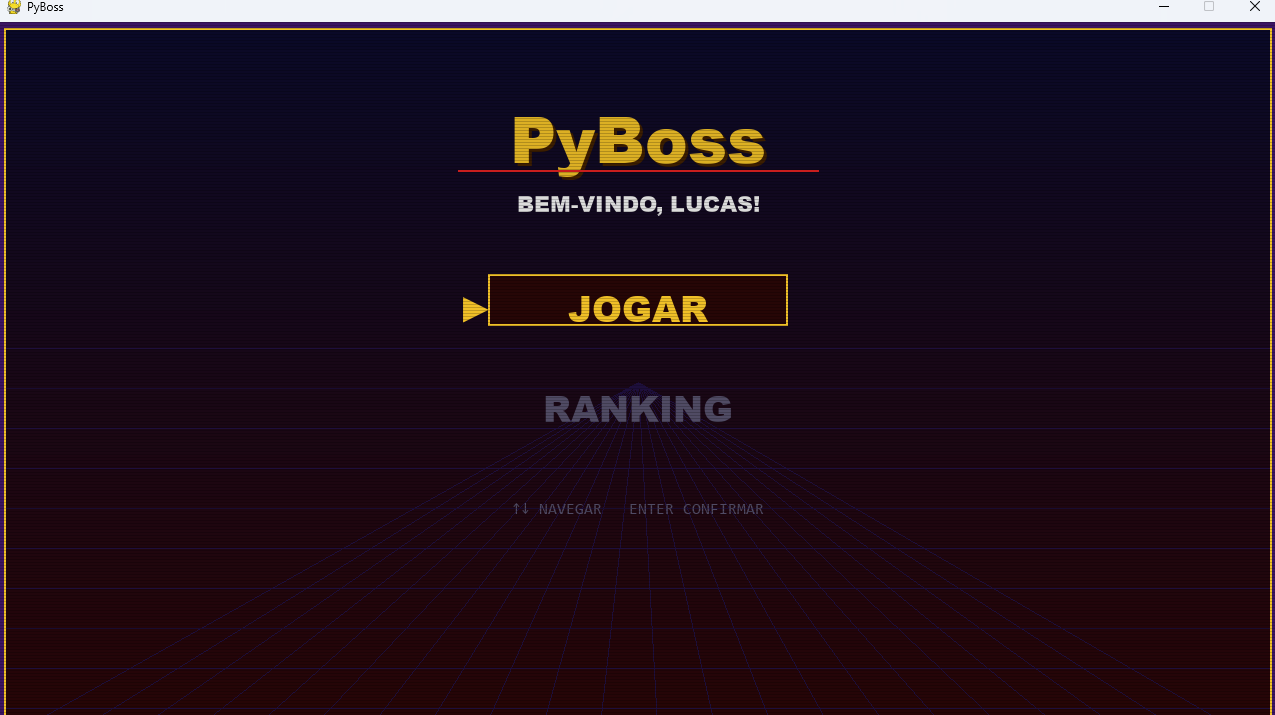
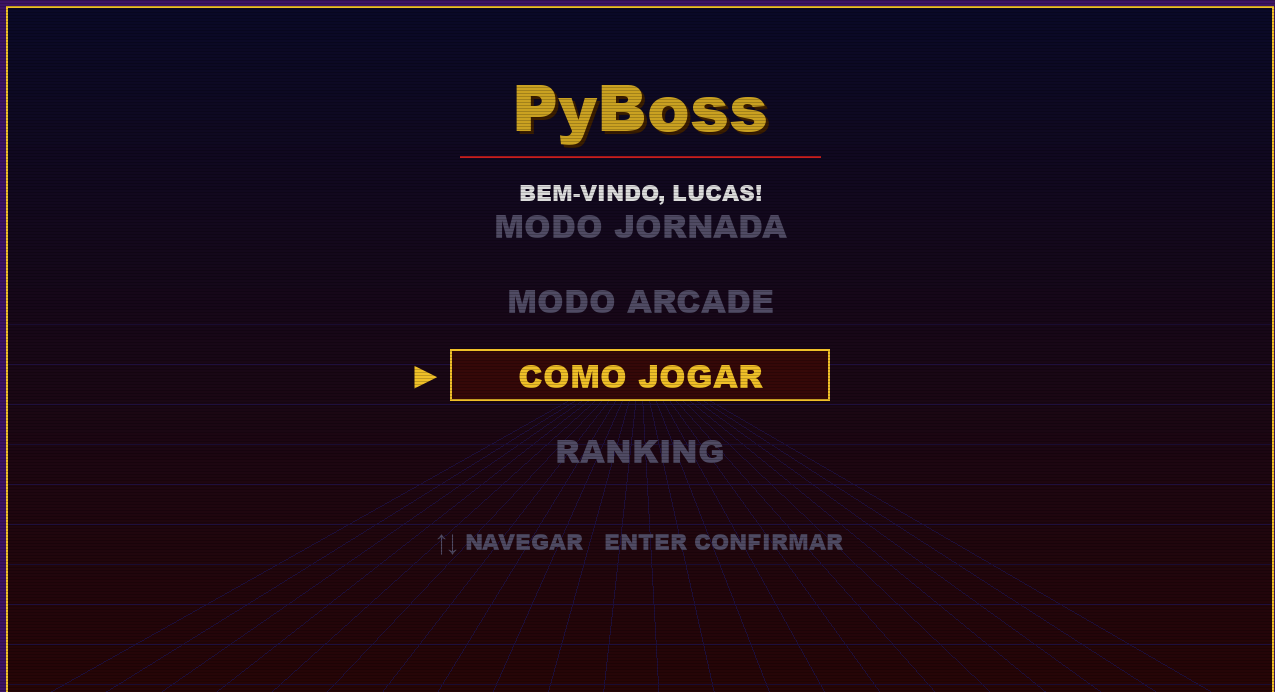
Adicionando fotos do novo menu e das novas funcionalidades

diff --git a/client/viewer/tela_arcade.py b/client/viewer/tela_arcade.py
@@ -62,7 +62,7 @@ class TelaArcade(TelaBatalha):
         
         minutos = int(cs.tempo_global // 60)
         segundos = int(cs.tempo_global % 60)
-        tempo_formatado = f"DOCKING TIME: {minutos:02d}:{segundos:02d}"
+        tempo_formatado = f"TEMPO RESTANTE: {minutos:02d}:{segundos:02d}"
         
         if cs.tempo_global > 60:
             cor_relogio = AZUL_HUD

diff --git a/README.md b/README.md
@@ -26,6 +26,15 @@
 ## Relatório Inteligente
 ![Relatório Inteligente](client/assets/images/relatoriointeligente.png)
 
+## Modo Arcade
+![Modo Arcade](client/assets/images/modoarcade.png)
+
+## Sistema de Drops
+![Sistema de Drops](client/assets/images/drop.png)
+
+## Inventário de Itens
+![Inventário de Itens](client/assets/images/inventario.png)
+
 # 🎯 Sobre o Jogo
 
 PyBoss é um jogo educativo desenvolvido com **Python** e **Pygame** que transforma o aprendizado da linguagem em uma experiência de RPG.
